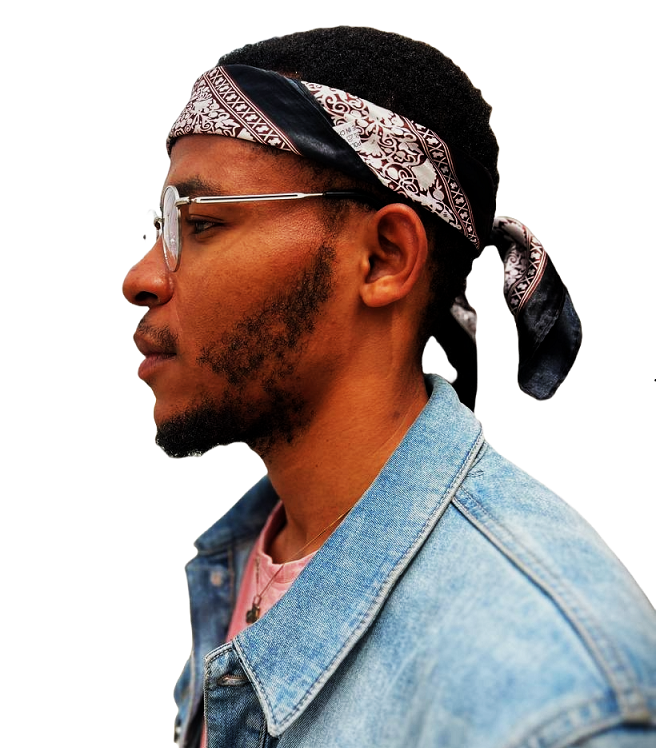
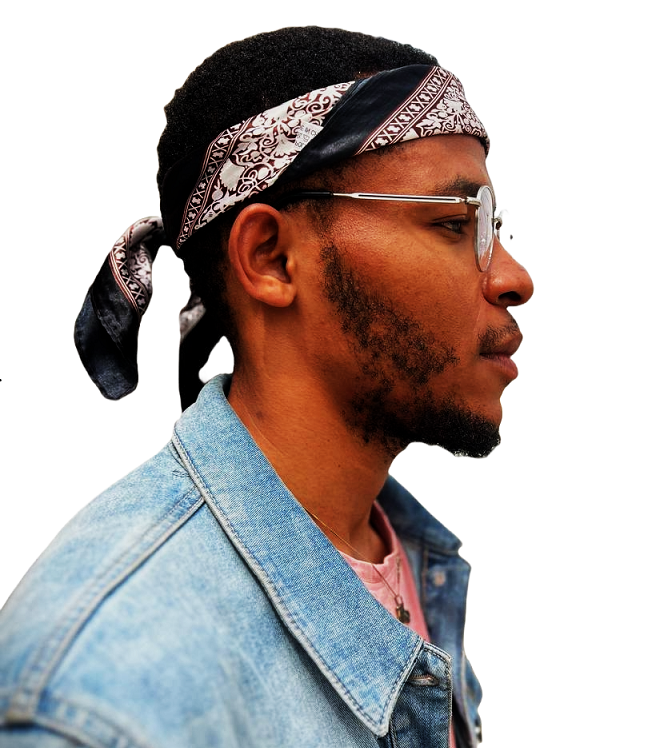
navbar

diff --git a/src/components/Footer.js b/src/components/Footer.js
@@ -1,5 +1,6 @@
 import { faGithub, faXTwitter, faFacebook} from '@fortawesome/free-brands-svg-icons';
 import { FontAwesomeIcon } from '@fortawesome/react-fontawesome'
+import AnchorLink from 'react-anchor-link-smooth-scroll';
 
 const Footer = () => {
   return ( 
@@ -11,22 +12,23 @@ const Footer = () => {
 
           <div className="footer__links">
             <h2>LINKS</h2>
-            <li>About</li>
-            <li>Skills</li>
-            <li>Projects</li>
+            <li><AnchorLink href="#about">About</AnchorLink></li>
+            <li><AnchorLink href="#skills">Skills</AnchorLink></li>
+            <li><AnchorLink href="">Projects</AnchorLink></li>
+
           </div>
 
           <div className="footer__contact">
             <h2>CONTACTS</h2>
             <div className='main'>
               <li>+234 705 771 8692</li>
-              <li> UYUOUKOH@GMAIL.COM </li>
+              <li><a href="href=mailto:uyuoukoh@gmail.com?subject=Let's%20Work&body=Hey%2C%20Good%20day%2C%20My%20name%20is...">UYUOUKOH@GMAIL.COM</a></li>
             </div>
 
             <div className='icon'>
-              <div><FontAwesomeIcon icon={faGithub}/></div>
-              <div><FontAwesomeIcon icon={faXTwitter}/></div>
-              <div><FontAwesomeIcon icon={faFacebook}/></div>
+              <div><a href="https://github.com/Felixx-jnr" target='blank'> <li><FontAwesomeIcon icon={faGithub} /></li></a></div>
+              <div><a href="https://x.com/Felixx_jnr?t=ViRhuKymNfmS_2pyCgv_cw&s=09" target='blank'> <li><FontAwesomeIcon icon={faXTwitter} /></li></a></div>
+              <div><a href="https://www.facebook.com/profile.php?id=100073334363631&mibextid=ZbWKwL" target='blank'> <li><FontAwesomeIcon icon={faFacebook} /></li></a></div>
             </div>
 
           </div>

diff --git a/src/components/Contact.js b/src/components/Contact.js
@@ -19,11 +19,16 @@ const Contact = () => {
         <div className="contact__info--writeup">
           <h2>Contact Details ! ! !</h2>
           
+          
           <div className='contact__info--logos'>
-            <div><FontAwesomeIcon icon={faEnvelope}/><span>Uyuoukoh@gmail.com</span></div>
-            <div><FontAwesomeIcon icon={faGithub}/><span>Felix_jnr</span></div>
-            <div><FontAwesomeIcon icon={faXTwitter}/><span>Felix_jnr</span></div>
-            <div><FontAwesomeIcon icon={faFacebook}/><span>Felix Udoh</span></div>
+            <div><a href="mailto:uyuoukoh@gmail.com?subject=Let's%20Work&body=Hey%2C%20Good%20day%2C%20My%20name%20is..." target='blank'><FontAwesomeIcon icon={faEnvelope}/><span>Uyuoukoh@gmail.com</span></a></div>
+
+            <div><a href="https://github.com/Felixx-jnr" target='blank'><FontAwesomeIcon icon={faGithub}/><span>Felix_jnr</span></a></div>
+
+            <div><a href="https://x.com/Felixx_jnr?t=ViRhuKymNfmS_2pyCgv_cw&s=09" target='blank'><FontAwesomeIcon icon={faXTwitter}/><span>Felix_jnr</span></a></div>
+
+            <div><a href="https://www.facebook.com/profile.php?id=100073334363631&mibextid=ZbWKwL" target='blank'><FontAwesomeIcon icon={faFacebook}/><span>Felix Udoh</span></a></div>
+
           </div>
 
         </div>
@@ -31,6 +36,8 @@ const Contact = () => {
       </div>
     </div>
 
+
+    
 
   );
 }

diff --git a/src/scss/components/navbar.scss b/src/scss/components/navbar.scss
@@ -1,15 +1,9 @@
 @use '../util' as *;
 
-.navbar{
-  max-width: 100%;
-  color: #000;
-  background: linear-gradient(to right, #000000 1%, #7e7e7e 60%, #000000 100%);
-  z-index: 2;
-}
-
-
 .navglass{
+  max-width: 100%;
   display: grid;
+  margin: 0 auto;
   position: fixed;
   top: 0px;
   grid-template-columns: 1fr 3fr 1fr;
@@ -17,6 +11,7 @@
   background: linear-gradient(to right, #000000 1%, #7e7e7e 60%, #000000 100%);
   -webkit-backdrop-filter: blur(100px);
   backdrop-filter: blur(100px);
+  z-index: 1;
 }
 
 header{
@@ -60,14 +55,14 @@ ul{
   
 }
 
-.icons{
+.icons a{
   justify-content: center;
   font-size: rem(25);
   color: #999;
 }
 
 .icons li{
-  padding-left:rem(20) ;
+  padding-right:rem(20) ;
 }
 
 .links li:nth-child(5){

diff --git a/src/scss/components/footer.scss b/src/scss/components/footer.scss
@@ -4,7 +4,7 @@
   width: 100%;
   margin: 0;
   padding: 0;
-  background: url('../../assets/e.png');
+  background: url('../../assets/footeredit.png');
   background-size: 30%;
   background-position: center;
   background-repeat: no-repeat;
@@ -40,6 +40,7 @@
     list-style: none;
     text-align: center;
     font-size: rem(20);
+    
   }
 
   &__links li, &__contact div{
@@ -61,6 +62,9 @@
   }
 }
 
+.icon a, .main a{
+  color: #000000;
+}
 
 h2.footer__name{
   margin: 0;
@@ -71,6 +75,10 @@ h2.footer__name{
   font-size: rem(30);
   margin-bottom: rem(10);
   margin-top: rem(0);
+}
+
+.footer__links a{
+  color: #969696;
 }
 
 .footer p{

diff --git a/src/components/Navbar.js b/src/components/Navbar.js
@@ -16,7 +16,7 @@ const Navbar = () => {
           <li><AnchorLink href="#home">Home</AnchorLink></li>
           <li><AnchorLink href="#about">About</AnchorLink></li>
           <li><AnchorLink href="#skills">Skills</AnchorLink></li>
-          {/* <AnchorLink href="#projects"><li>Projects</li></AnchorLink> */}
+          <li><AnchorLink href="">Projects</AnchorLink></li>
           <li><AnchorLink href="#contact">Contact</AnchorLink></li>
         </ul>
     

diff --git a/src/scss/components/skills.scss b/src/scss/components/skills.scss
@@ -23,6 +23,7 @@
 .card{
   filter: grayscale(100%);
   position: relative;
+  z-index: 0;
   margin: rem((5));
   padding: rem(10) rem(30) rem(0);
   width: rem(150);

diff --git a/src/scss/globals/typography.scss b/src/scss/globals/typography.scss
@@ -21,9 +21,11 @@
 
 a, a:visited, a:active{
   text-decoration: none;
+  transition: all 1s;
 }
 
 a:hover{
-  
+  text-decoration: underline;
+
 }
 

diff --git a/src/components/Home.js b/src/components/Home.js
@@ -1,4 +1,4 @@
-import me from '../assets/e.png'
+import me from '../assets/be2rem.png'
 
 const Home = () => {
   return ( 

diff --git a/src/scss/globals/boilerplate.scss b/src/scss/globals/boilerplate.scss
@@ -12,6 +12,7 @@ html{
 }
 
 body{
+  
   position: relative;
   margin-top: rem(110);
   padding: rem(0);

diff --git a/src/scss/components/contact.scss b/src/scss/components/contact.scss
@@ -45,3 +45,7 @@
     }
   }
 }
+
+.contact a {
+  color: #999;
+}
